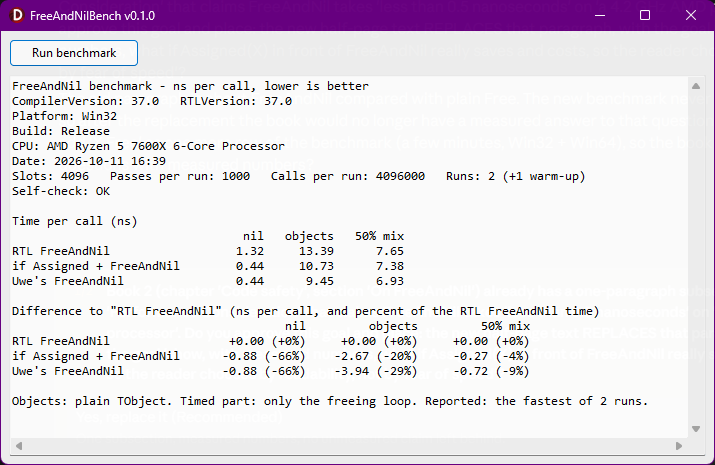
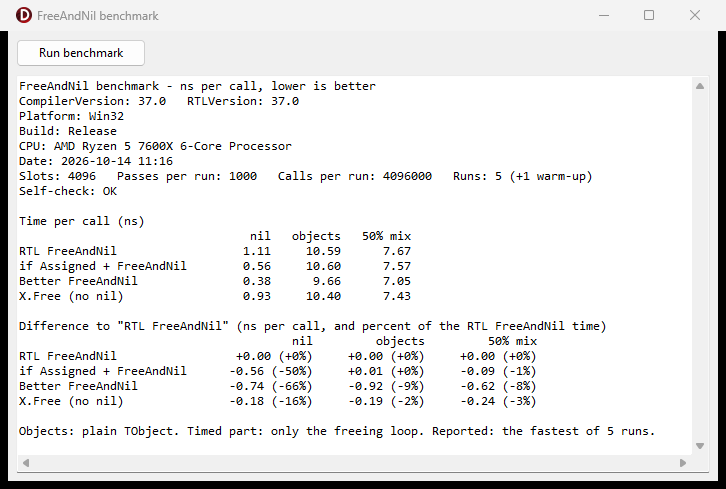
support for AutoPilot

Changed region(s): [[0.0, 0.0, 1.0, 1.0], [0.4, 0.4516, 0.5846, 0.6323], [0.3077, 0.4516, 0.3692, 0.6323]]

diff --git a/README.md b/README.md
@@ -37,6 +37,8 @@ if Assigned + FreeAndNil          0.37            10.09
 Better FreeAndNil                 0.55             9.57
 ```
 
+Your numbers will differ a little. Within one build, the "X is nil" column repeats almost exactly. But a rebuild can move a whole row by about 0.2 ns, because the code lands at a different address (the screenshot below comes from another build than the table). So trust only the differences that keep their sign in every run and every build.
+
 Conclusion: FreeAndNil costs the same as Free. When X is nil, the "if" saves about 0.6-0.7 ns per call. When X holds an object, the "if" makes no difference you can rely on. 
 
 ![The VCL front end of the benchmark](screenshot.png)
